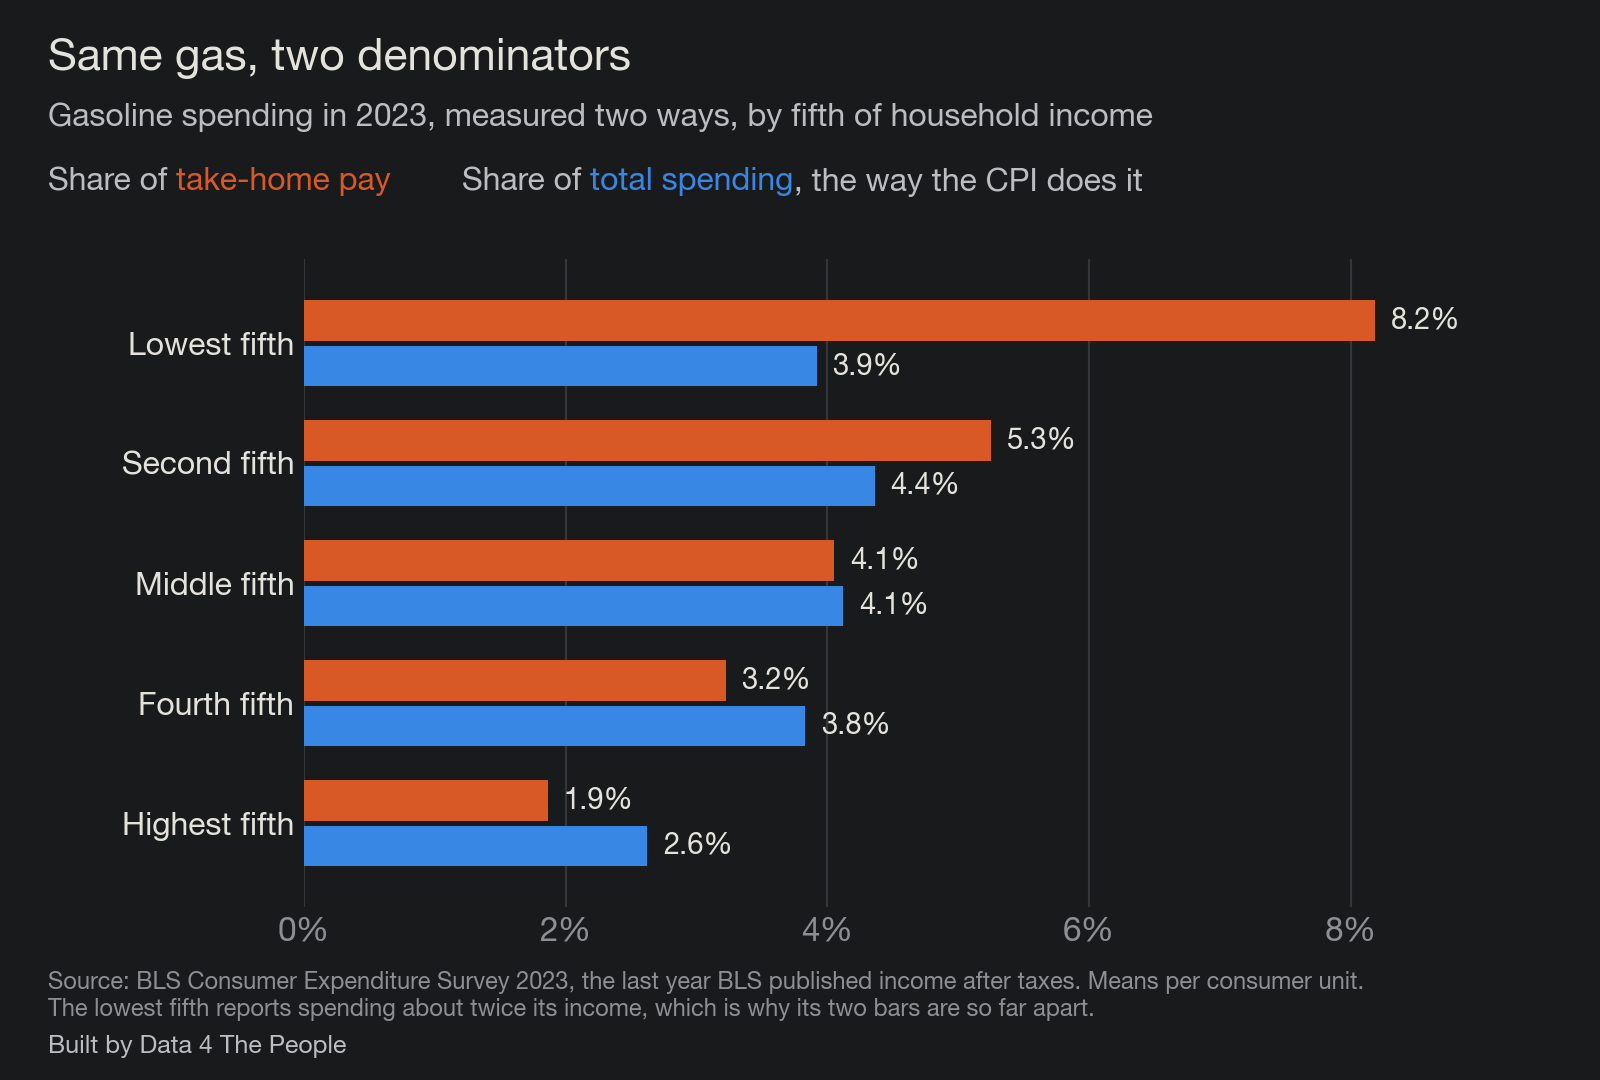
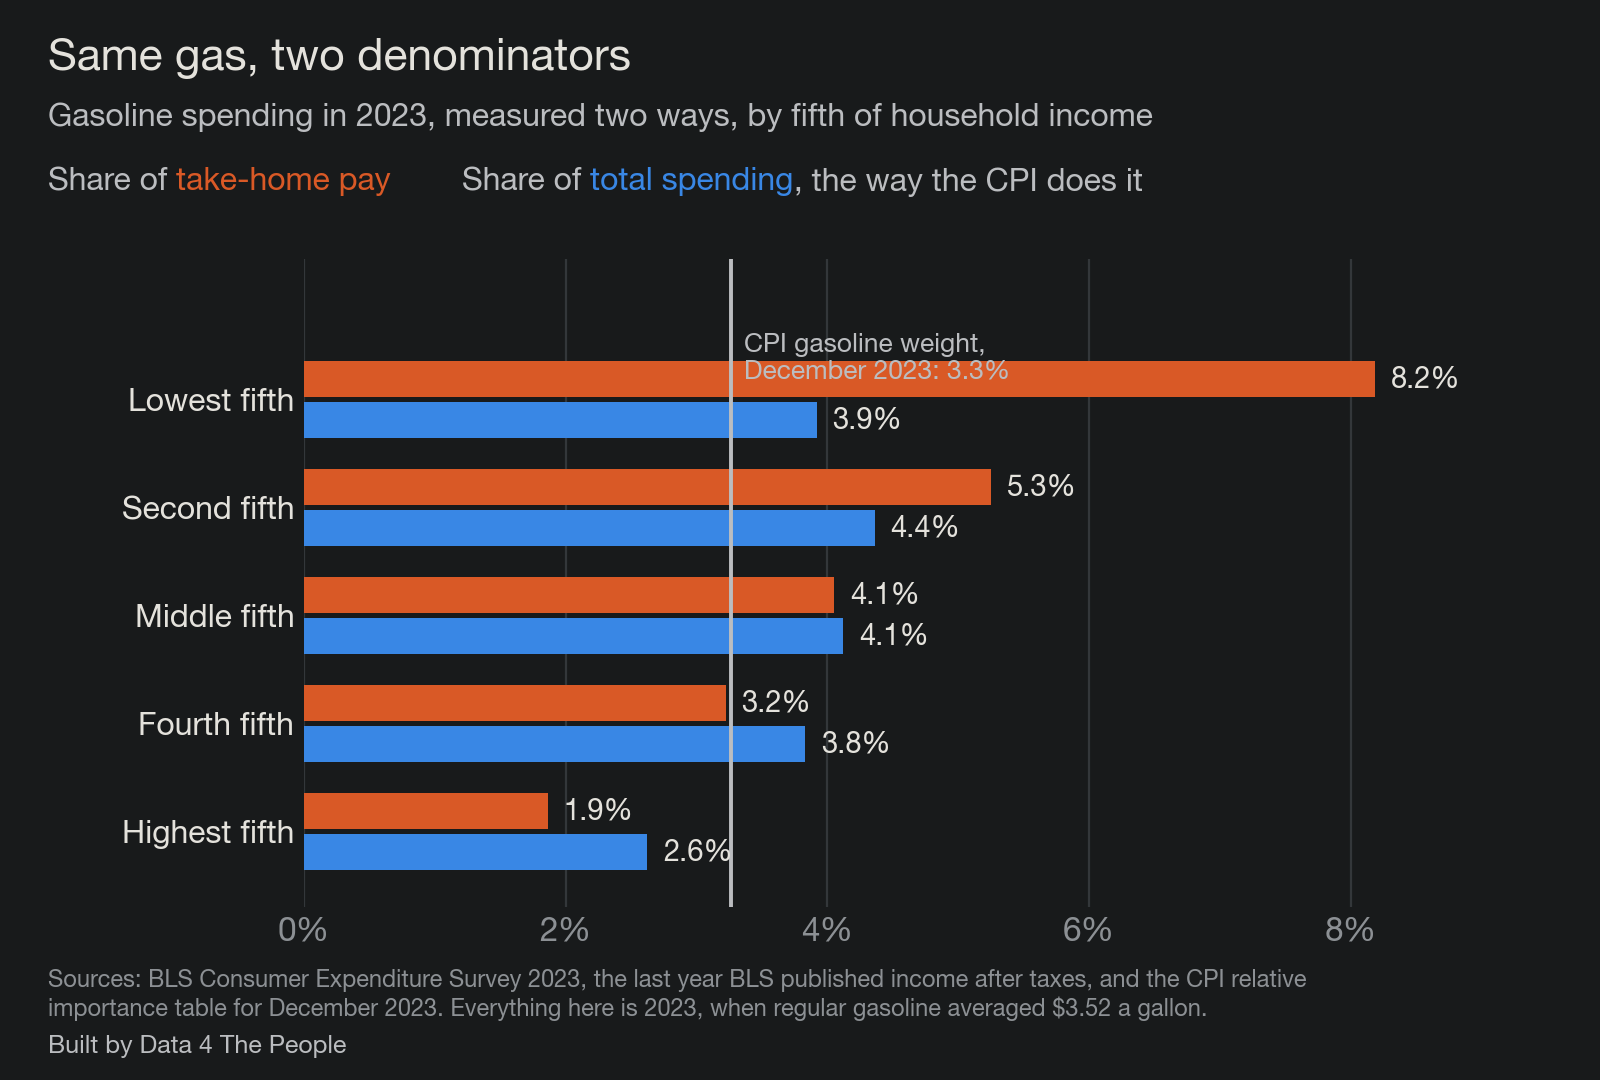
gasoline-share-of-income: put the 2023 CPI weight on the denominator chart

Changed region(s): [[0.0625, 0.275, 0.9062, 0.825], [0.0312, 0.8861, 0.8438, 0.9472]]

diff --git a/src/charts.py b/src/charts.py
@@ -388,16 +388,19 @@ def chart_denominator():
         ax.text(v + 0.12, y + h / 2 + 0.02, f'{v:.1f}%', va='center', color=INK, fontsize=10.5, fontweight='bold')
     for y, v in zip(ys, spend):
         ax.text(v + 0.12, y - h / 2 - 0.02, f'{v:.1f}%', va='center', color=INK, fontsize=10.5, fontweight='bold')
+    ri = ri_2023()
+    ax.axvline(ri, color=REF, lw=1.4)
+    ax.text(ri + 0.1, 4.62, f'CPI gasoline weight,\nDecember 2023: {ri:.1f}%', color=INK2, fontsize=9.5, va='top', linespacing=1.15)
     ax.set_yticks(ys, labels[::-1]); ax.tick_params(axis='y', labelcolor=INK, labelsize=11.5)
-    ax.set_xlim(0, max(income) * 1.15); ax.set_ylim(-0.7, 4.7)
+    ax.set_xlim(0, max(income) * 1.15); ax.set_ylim(-0.7, 5.3)
     ax.xaxis.set_major_formatter(lambda x, _: f'{x:.0f}%')
     ax.grid(axis='x', color=GRID, lw=0.8); ax.set_axisbelow(True)
     f.subplots_adjust(left=0.19, right=0.96, top=0.76, bottom=0.16)
     title(f, 'Same gas, two denominators', 'Gasoline spending in 2023, measured two ways, by fifth of household income')
     colored_line(f, 0.03, 0.845, [('Share of ', INK2, False), ('take-home pay', S[1], True), ('        Share of ', INK2, False),
                                   ('total spending', S[0], True), (', the way the CPI does it', INK2, False)])
-    foot(f, 'Source: BLS Consumer Expenditure Survey 2023, the last year BLS published income after taxes. Means per consumer unit.\n'
-            'The lowest fifth reports spending about twice its income, which is why its two bars are so far apart.')
+    foot(f, 'Sources: BLS Consumer Expenditure Survey 2023, the last year BLS published income after taxes, and the CPI relative\n'
+            'importance table for December 2023. Everything here is 2023, when regular gasoline averaged $3.52 a gallon.')
     f.savefig(OUT / '10-denominator.png', facecolor=BG); plt.close(f)
 
 

diff --git a/posts/gasoline-share-of-income/POST.md b/posts/gasoline-share-of-income/POST.md
@@ -148,6 +148,8 @@ Because spending can run well above income. Households fill that gap with saving
 ![Gasoline spending in 2023 measured against take-home pay and against total spending](images/06-denominator.png)
 *The two measures agree in the middle of the income range and part company at the ends.*
 
+Everything in this chart is 2023, the last year the BLS published income after taxes, when regular gasoline averaged $3.52 a gallon rather than today's $4.48. The CPI's gasoline weight that December was 3.3%, so read these numbers against that line and not against the 4.3% used earlier in this post.
+
 For the middle fifth of households the two measures give the same answer, 4.1%. For the lowest fifth, gasoline is 3.9% of spending and 8.2% of take-home pay. For the highest fifth it runs the other way, 2.6% of spending and 1.9% of take-home pay. The denominator decides which story gets told.
 
 ### Is the CPI wrong?
